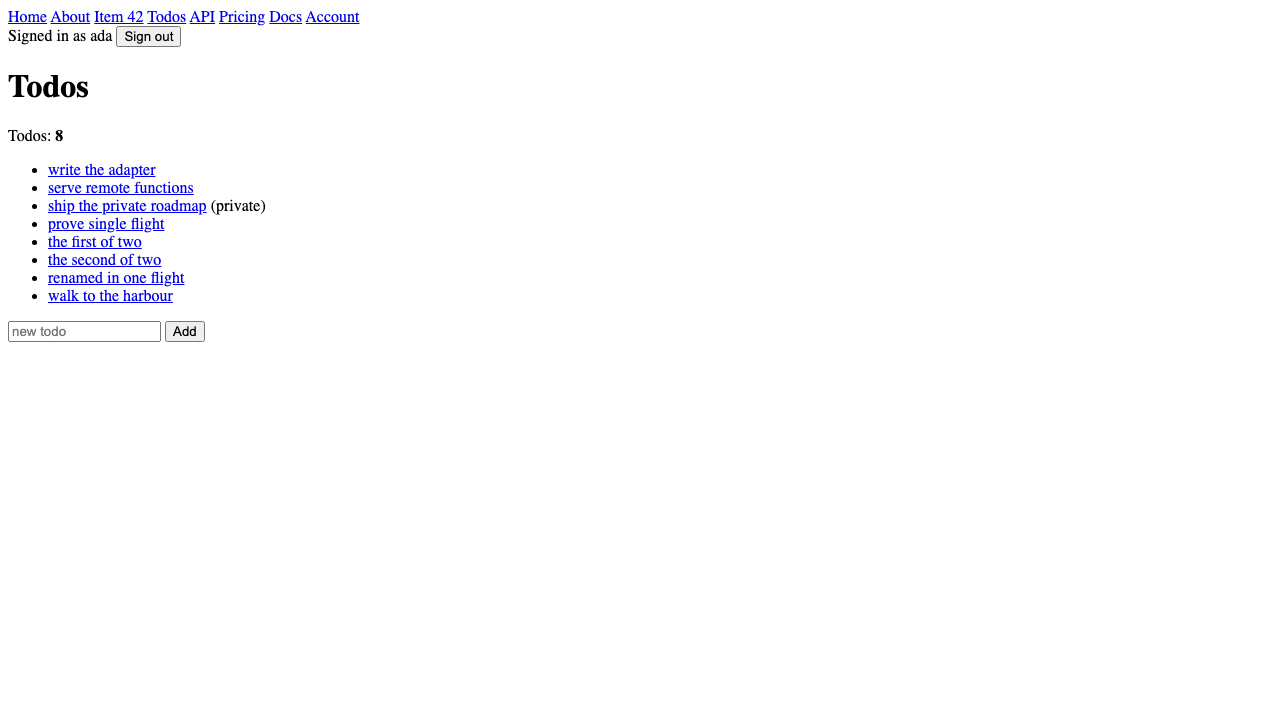
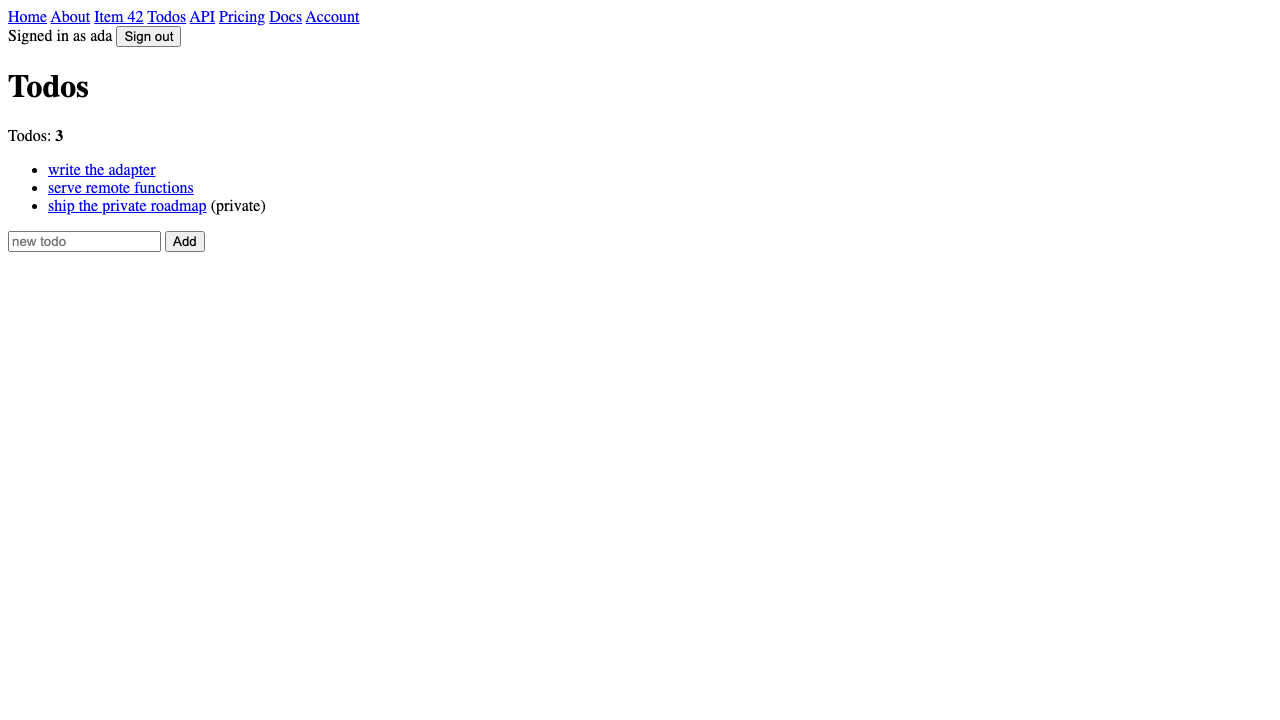
photograph the pages the concurrency scenario opened; bare 3xx for a load redirect

Changed region(s): [[0.0, 0.3056, 0.1562, 0.4889], [0.0, 0.4583, 0.0625, 0.4889]]

diff --git a/example/e2e/steps/ssr.ts b/example/e2e/steps/ssr.ts
@@ -82,13 +82,16 @@ Then('nothing on the page failed to load', async ({ page, shot }) => {
 });
 
 /** The two documents the concurrency scenario fetched, and their HTML. */
-const concurrent: { pages: Page[]; html: string[] } = { pages: [], html: [] };
+const concurrent: { second: Page | null; html: string[] } = { second: null, html: [] };
 
 When(
 	'{string} and {string} are asked for at the same moment',
-	async ({ browser }, first: string, second: string) => {
-		const contexts = await Promise.all([browser.newContext(), browser.newContext()]);
-		const pages = await Promise.all(contexts.map((context) => context.newPage()));
+	async ({ page, browser }, first: string, second: string) => {
+		// The scenario's own page takes the first URL and a second browser
+		// takes the other, so every frame this scenario leaves behind is a page
+		// somebody actually looked at.
+		const context = await browser.newContext();
+		concurrent.second = await context.newPage();
 		const baseURL = process.env.BASE_URL ?? '';
 
 		// Both navigations are started before either is awaited, so the two
@@ -96,32 +99,25 @@ When(
 		// runtime the second would overwrite the first's render context and one
 		// of the documents would come back empty or carrying the other's page.
 		const responses = await Promise.all([
-			pages[0].goto(baseURL + first),
-			pages[1].goto(baseURL + second)
+			page.goto(baseURL + first),
+			concurrent.second.goto(baseURL + second)
 		]);
 
-		concurrent.pages = pages;
 		concurrent.html = await Promise.all(responses.map((response) => response!.text()));
 	}
 );
 
-Then(
-	'the first document says the item is named {string}',
-	async ({ shot }, name: string) => {
-		expect(concurrent.html[0]).toContain(`<p data-testid="item-name">${name}</p>`);
-		await shotOf(concurrent.pages[0], 'first');
-		await shot('first-live');
-	}
-);
+Then('the first document says the item is named {string}', async ({ shot }, name: string) => {
+	expect(concurrent.html[0]).toContain(`<p data-testid="item-name">${name}</p>`);
+	await shot('first');
+});
 
-Then(
-	'the second document says the item is named {string}',
-	async ({ shot }, name: string) => {
-		expect(concurrent.html[1]).toContain(`<p data-testid="item-name">${name}</p>`);
-		await shotOf(concurrent.pages[1], 'second');
-		await shot('second-live');
-	}
-);
+Then('the second document says the item is named {string}', async ({ page }, name: string) => {
+	expect(concurrent.html[1]).toContain(`<p data-testid="item-name">${name}</p>`);
+	await screenshot(concurrent.second!, 'two-pages-at-once-second');
+	// And the first page again, so the pair can be read side by side.
+	await screenshot(page, 'two-pages-at-once-first');
+});
 
 Then("neither document carries the other's item", async ({ shot }) => {
 	const names = concurrent.html.map((html) => {
@@ -134,15 +130,15 @@ Then("neither document carries the other's item", async ({ shot }) => {
 		expect(html).not.toContain(`>${names[1 - i]}</p>`);
 	}
 	await shot('distinct');
-	for (const page of concurrent.pages) await page.context().close();
-	concurrent.pages = [];
+	await concurrent.second!.context().close();
+	concurrent.second = null;
 });
 
-/** Photographs one of the concurrency scenario's own pages. */
-async function shotOf(page: Page, name: string) {
+/** Photographs a page this scenario opened itself. */
+async function screenshot(page: Page, name: string) {
 	const mode = process.env.EXPECTED_MODE ?? 'unknown';
 	await page.screenshot({
-		path: `../../ephemeral/screenshots/ssr/${mode}/two-pages-at-once-${name}.png`,
+		path: `../../ephemeral/screenshots/ssr/${mode}/${name}.png`,
 		fullPage: true
 	});
 }

diff --git a/document.go b/document.go
@@ -155,9 +155,15 @@ func (s *SSR) serve(w http.ResponseWriter, r *http.Request, urlPath string) bool
 
 	for _, node := range nodes {
 		if node.redir != nil {
+			// Kit answers a redirect thrown by a load with a bare 3xx: a
+			// Location and no body at all (`runtime/server/utils.js`,
+			// `redirect_response`). net/http's own Redirect would write a
+			// courtesy anchor tag, which is a document skgo did not render.
 			h := w.Header()
 			shared.applyTo(h)
-			http.Redirect(w, r, node.redir.Location, node.redir.status())
+			h.Set("Location", node.redir.Location)
+			h.Set("Cache-Control", "private, no-store")
+			w.WriteHeader(node.redir.status())
 			return true
 		}
 	}

diff --git a/ephemeral/worklog/202609061930-ssr-in-process.md b/ephemeral/worklog/202609061930-ssr-in-process.md
@@ -135,3 +135,11 @@ all fail on documents that look fine, because they *are* fine — for the build
 that binary embedded. `curl -s $ORIGIN/ | grep -o "start\.[A-Za-z0-9_-]*\.js"`
 against `example/web/build/index.html` says in one line whether the server under
 test is the one that was built.
+
+## The suite needs a server it started
+
+`/api/todos` keeps its list in memory for the life of the process, and the
+`POST` scenario asserts there is exactly one todo with the text it just posted.
+Run the suite twice against the same server and it fails on the second run with
+three of them. Nothing about SSR changed this; it is worth knowing before
+reading a failure that says the endpoint returned the wrong number of rows.
